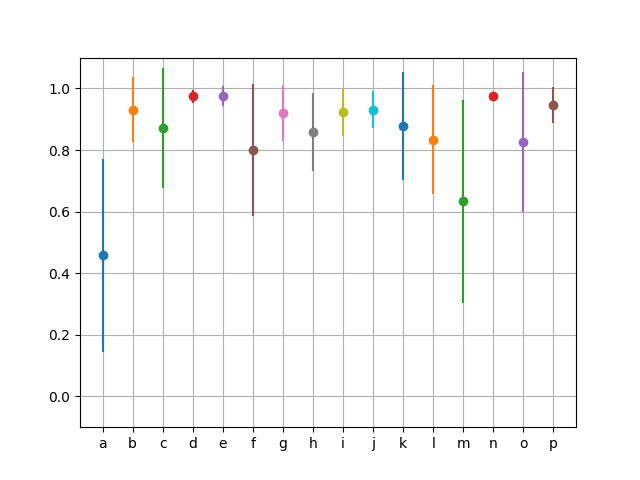
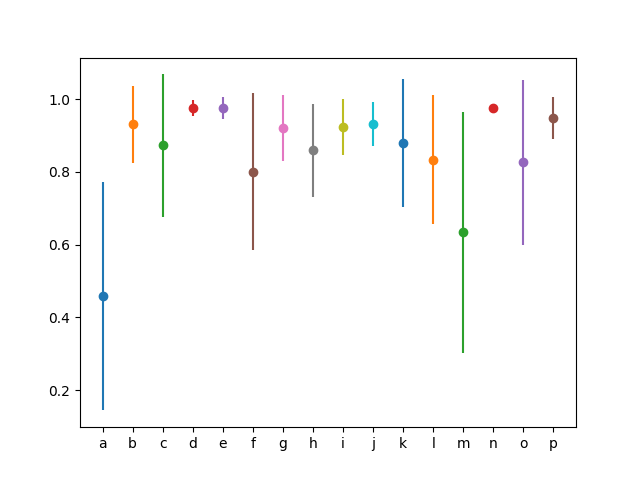
Added FashionMNIST

diff --git a/src/misc/data.py b/src/misc/data.py
@@ -31,6 +31,24 @@ def create_loader(dat, lab, batch):
     dataloader = torch.utils.data.DataLoader(dataset, batch_size=batch, shuffle=True)
     return dataloader
 
+def get_fashionmnist(download=0):
+    download = int(download)
+    NUM_CLASSES = 10
+    CHANNELS = 1
+    IMAGESIZE = (32, 32)
+    
+    train = torchvision.datasets.FashionMNIST(root=ROOT, train=True, download=download)
+    trainData = train.train_data.view(-1, 1, 28, 28).float()/255.0
+    trainData = convert_size(trainData, IMAGESIZE)
+    trainLabels = torch.LongTensor(train.train_labels)
+    
+    test = torchvision.datasets.FashionMNIST(root=ROOT, train=False, download=download)
+    testData = test.test_data.view(-1, 1, 28, 28).float()/255.0
+    testData = convert_size(testData, IMAGESIZE)
+    testLabels = torch.LongTensor(test.test_labels)
+
+    return trainData, trainLabels, testData, testLabels, NUM_CLASSES, CHANNELS, IMAGESIZE
+
 def get_mnist(download=0):
     
     download = int(download)

diff --git a/src/abalate.py b/src/abalate.py
@@ -9,10 +9,8 @@ def load(f):
     return json.load(open(f, "r"))
 
 @misc.main
-def plot():
+def plot(ROOT):
 
-    ROOT = "results/abalations/results/"
-    
     for fold in os.listdir(ROOT):
     
         folder = os.path.join(ROOT, fold)
@@ -25,10 +23,11 @@ def plot():
         for i in range(len(fnames)):
             data = jsons[i]
             if data:
+                #pyplot.plot([labels[i]] * len(data), data, ".")
                 mean = statistics.mean(data)
                 stdd = statistics.stdev(data)
                 pyplot.errorbar([labels[i]], [mean], yerr=[stdd], fmt="o")
-        pyplot.ylim([-0.1, 1.1])
-        pyplot.grid()
+        #pyplot.ylim([-0.1, 1.1])
+        #pyplot.grid()
         pyplot.savefig(outname + ".png")
         pyplot.clf()

diff --git a/src/train.py b/src/train.py
@@ -67,6 +67,7 @@ def main(
         "mnist64-corrupt": misc.data.get_mnist64_corrupt,
         "mnist64-quadrants": misc.data.get_mnist64quads,
         "mnist-rgb": misc.data.get_mnistrgb,
+        "fashion": misc.data.get_fashionmnist,
         "cifar10": misc.data.get_cifar10,
         "cifar10-corrupt": misc.data.get_cifar10_corrupt,
         "cifar1064": misc.data.get_cifar1064,
